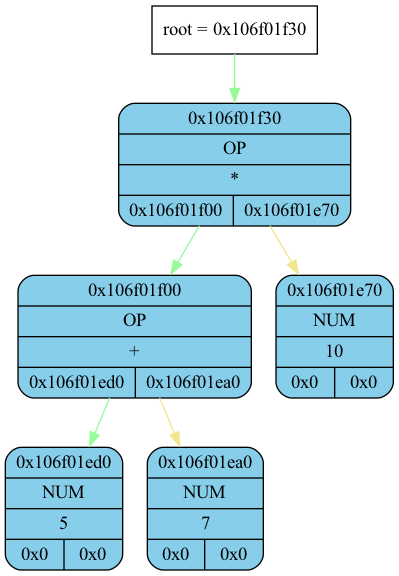
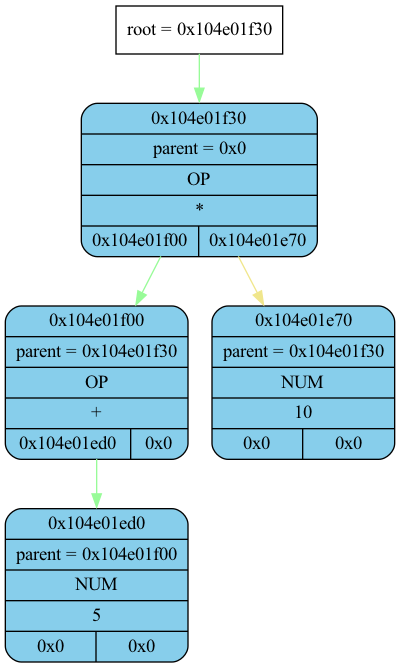
verify done but have some mistakes

diff --git a/logs/log.html b/logs/log.html
@@ -1,40 +1,27 @@
 <html>
 <pre>
 int main() at main.cpp(17):
-Tree 0x16b1cb4c0 (<span style="color: green">OK</span>) "&tree" at int main() at main.cpp(9):
-{
-    root = 0x106f01f30
-}</pre>
+Tree 0x16d2df480 (<span style="color: green">OK</span>) "&tree" at int main() at main.cpp(9):
+{root = 0x104e01f30}</pre>
 <img src="./images/tree_dump1.png">
 <pre>
 int main() at main.cpp(19):
-Tree 0x16b1cb4c0 (<span style="color: green">OK</span>) "&tree" at int main() at main.cpp(9):
-{
-    root = 0x106f01f30
-}</pre>
+Tree 0x16d2df480 (<span style="color: green">OK</span>) "&tree" at int main() at main.cpp(9):
+{root = 0x104e01f30}</pre>
 <img src="./images/tree_dump2.png">
 <pre>
 int main() at main.cpp(21):
-Tree 0x16b1cb4c0 (<span style="color: green">OK</span>) "&tree" at int main() at main.cpp(9):
-{
-    root = 0x106f01f30
-}</pre>
+Tree 0x16d2df480 (<span style="color: green">OK</span>) "&tree" at int main() at main.cpp(9):
+{root = 0x104e01f30}</pre>
 <img src="./images/tree_dump3.png">
 <pre>
 int main() at main.cpp(23):
-Tree 0x16b1cb4c0 (<span style="color: green">OK</span>) "&tree" at int main() at main.cpp(9):
-{
-    root = 0x106f01f30
-}</pre>
+Tree 0x16d2df480 (<span style="color: green">OK</span>) "&tree" at int main() at main.cpp(9):
+{root = 0x104e01f30}</pre>
 <img src="./images/tree_dump4.png">
 <pre>
-int main() at main.cpp(25):
-Tree 0x16b1cb4c0 (<span style="color: green">OK</span>) "&tree" at int main() at main.cpp(9):
-{
-    root = 0x106f01f30
-}</pre>
+int main() at main.cpp(26):
+Tree 0x16d2df480 (<span style="color: red">ERROR</span>) "&tree" at int main() at main.cpp(9):
+{root = 0x104e01f30}</pre>
+Node with type num has left child
 <img src="./images/tree_dump5.png">
-<pre>
-Tree 0x16b1cb4c0 "&tree" at int main() at main.cpp(9): DESTRUCTED
-</pre>
-</html>

diff --git a/tree_debug.cpp b/tree_debug.cpp
@@ -78,29 +78,29 @@ void add_nodes(tree_node_t * node)
 
     if (node->type == TYPE_OP)
     {
-        fprintf(graphviz_file, "    node_%p[shape = Mrecord, label = \"{{%p} | {OP} | {%c} | {%p | %p}}\",\n\
-                style=\"filled\", fillcolor=\"%s\"];\n", node, node, OPERATIONS[node->value - 1], node->left, node->right, BLUE);
+        fprintf(graphviz_file, "    node_%p[shape = Mrecord, label = \"{{%p} | {parent =  %p} | {OP} | {%c} | {%p | %p}}\",\n\
+                style=\"filled\", fillcolor=\"%s\"];\n", node, node, node->parent, OPERATIONS[node->value - 1], node->left, node->right, BLUE);
     }
     else
     {
-        fprintf(graphviz_file, "    node_%p[shape = Mrecord, label = \"{{%p} | {NUM} | {%d} | {%p | %p}}\",\n\
-                style=\"filled\", fillcolor=\"%s\"];\n", node, node, node->value, node->left, node->right, BLUE);
+        fprintf(graphviz_file, "    node_%p[shape = Mrecord, label = \"{{%p} | {parent =  %p} | {NUM} | {%d} | {%p | %p}}\",\n\
+                style=\"filled\", fillcolor=\"%s\"];\n", node, node, node->parent, node->value, node->left, node->right, BLUE);
     }
     add_nodes(node->left);
     add_nodes(node->right);
 }
 
-void link_nodes(tree_node_t * node)
+void link_nodes_gr(tree_node_t * node)
 {
     if (node->left != NULL)
     {
         fprintf(graphviz_file, "    node_%p->node_%p [color = \"%s\"];\n", node, node->left, GREEN);
-        link_nodes(node->left);
+        link_nodes_gr(node->left);
     }
     if (node->right != NULL)
     {
         fprintf(graphviz_file, "    node_%p->node_%p [color = \"%s\"];\n", node, node->right, YELLOW);
-        link_nodes(node->right);
+        link_nodes_gr(node->right);
     }
 }
 
@@ -126,17 +126,24 @@ int tree_dump_(tree_t * tree, const char * func, const char * file, int line)
 
     fprintf(log_file, "<pre>\n%s at %s(%d):\n", func, file, line);
 
-        fprintf(log_file, "Tree %p (<span style=\"color: green\">OK</span>) \"%s\" at %s at %s(%d):\n",
-                tree, tree->info.name, tree->info.func, tree->info.file, tree->info.line);
+    tree_verify(tree);
 
-        fprintf(log_file, "{\n    root = %p\n}", tree->root);
-        fprintf(log_file, "</pre>\n");
-
-    open_graphviz_file();
-    graphviz_init(tree);
-    add_nodes(tree->root);
-    link_nodes(tree->root);
-    close_graphviz_file();
+    if (tree->status == STATUS_OK)
+    {
+        fprintf(log_file, "Tree %p (<span style=\"color: green\">OK</span>) \"%s\" at %s at %s(%d):\n{root = %p}</pre>\n",
+                tree, tree->info.name, tree->info.func, tree->info.file, tree->info.line, tree->root);
+        open_graphviz_file();
+        graphviz_init(tree);
+        add_nodes(tree->root);
+        link_nodes_gr(tree->root);
+        close_graphviz_file();
+    }
+    else
+    {
+        fprintf(log_file, "Tree %p (<span style=\"color: red\">ERROR</span>) \"%s\" at %s at %s(%d):\n{root = %p}</pre>\n",
+                tree, tree->info.name, tree->info.func, tree->info.file, tree->info.line, tree->root);
+        error_number_translate(tree);
+    }
 
     system(graphviz_cmd);
 
@@ -145,4 +152,83 @@ int tree_dump_(tree_t * tree, const char * func, const char * file, int line)
     fprintf(log_file, "<img src=\"./images/tree_dump%d.png\">\n", dump_cnt);
 
     return 0;
+}
+
+int tree_verify(tree_t * tree)
+{
+    ASSERT(tree != NULL);
+
+    node_verify(tree, tree->root);
+
+    return STATUS_OK;
+}
+
+void node_verify(tree_t * tree, tree_node_t * node)
+{
+    if (node == NULL) return;
+
+    if (node->type == TYPE_NUM)
+    {
+        if (node->left != NULL)
+            tree->status |= NUM_NODE_HAS_LEFT_CHILD;
+
+        if (node->right != NULL)
+            tree->status |= NUM_NODE_HAS_RIGHT_CHILD;
+    }
+
+    if (node == tree->root && tree->root->parent != NULL)
+        tree->status |= ROOT_HAVE_PARENT;
+
+    if (node != tree->root && node->parent == NULL)
+        tree->status |= NOT_ROOT_HAVE_NO_PARENT;
+
+    if (node->left != NULL && node->left == node->right)
+        tree->status |= LEFT_RIGHT_SAME;
+
+    if (node->parent != NULL && node->parent->left != node && node->parent->right != node)
+        tree->status |= WRONG_PARENT;
+
+    if (tree->status != STATUS_OK)
+        return;
+
+    node_verify(tree, node->left);
+    node_verify(tree, node->right);
+}
+
+void error_number_translate(tree_t * tree)
+{
+    ASSERT(tree != NULL);
+
+    int i = 0;
+
+    while (i < ERRORS_COUNT)
+    {
+        switch (tree->status & (1 << i))
+        {
+            case 0:
+                break;
+            case NUM_NODE_HAS_LEFT_CHILD:
+                fprintf(log_file, "Node with type num has left child\n");
+                break;
+            case NUM_NODE_HAS_RIGHT_CHILD:
+                fprintf(log_file, "Node with type num has right child\n");
+                break;
+            case ROOT_HAVE_PARENT:
+                fprintf(log_file, "Tree root have parent\n");
+                break;
+            case NOT_ROOT_HAVE_NO_PARENT:
+                fprintf(log_file, "Node that is not root has NULL parent\n");
+                break;
+            case LEFT_RIGHT_SAME:
+                fprintf(log_file, "Left and right children are the same\n");
+                break;
+            case WRONG_PARENT:
+                fprintf(log_file, "Parent of node has child of this node\n");
+                break;
+            default:
+                fprintf(log_file, "Unknown error\n");
+                break;
+        }
+        i++;
+    }
 }

diff --git a/tree_debug.h b/tree_debug.h
@@ -28,6 +28,24 @@
 
 #define OPERATIONS "+-*/"
 
+//! @brief Errors that can be with tree
+enum STATUS
+{
+    STATUS_OK                = 0 << 0,
+    NUM_NODE_HAS_LEFT_CHILD  = 1 << 0,
+    NUM_NODE_HAS_RIGHT_CHILD = 1 << 1,
+    NODE_CREATE_ERROR        = 1 << 2,
+    NODE_LINK_ERROR          = 1 << 3,
+    MODE_LINK_ERROR          = 1 << 4,
+    LINK_NULL_ROOT           = 1 << 5,
+    ROOT_HAVE_PARENT         = 1 << 6,
+    WRONG_PARENT             = 1 << 7,
+    LEFT_RIGHT_SAME          = 1 << 8,
+    NOT_ROOT_HAVE_NO_PARENT  = 1 << 9,
+};
+
+const int ERRORS_COUNT = 10;
+
 //! @brief File to generate graphviz picture
 extern FILE * graphviz_file;
 
@@ -61,7 +79,7 @@ void add_nodes(tree_node_t * node);
 
 //! @brief Link nodes in .dot file
 //! @param [in] node - ptr to node
-void link_nodes(tree_node_t * node);
+void link_nodes_gr(tree_node_t * node);
 
 //! @brief Tree dump
 //! Make .dot file using funcs above and use graphiz to make png picture of dump
@@ -77,6 +95,21 @@ int tree_dump_(tree_t * tree, const char * func, const char * file, int line);
 //! cmd string buffer allocated with calloc (don't forget to free)
 //! @return ptr to string
 char * create_graphviz_cmd(void);
+
+//! @brief Verify tree, create number
+//! Summarize codes of mistakes to make number where each bit is concrete mistake
+//! @param [in] list - ptr to tree
+//! @return error number
+int tree_verify(tree_t * tree);
+
+//! @brief Verify node
+//! @param [in] node - ptr to node
+//! @return error number
+void node_verify(tree_t * tree, tree_node_t * node);
+
+//! @brief Write to log errors with using error number
+//! @param [in] error_number - error number what return tree verify
+void error_number_translate(tree_t * tree);
 
 
 #endif

diff --git a/tree_funcs.cpp b/tree_funcs.cpp
@@ -8,7 +8,7 @@ int tree_ctor_(tree_t * tree, var_info info)
     tree->root = NULL;
     tree->info = info;
 
-    return 0;
+    return STATUS_OK;
 }
 
 int tree_dtor(tree_t * tree)
@@ -28,7 +28,7 @@ int tree_dtor(tree_t * tree)
     tree->info.func = NULL;
     tree->info.line = 0;
 
-    return 0;
+    return STATUS_OK;
 }
 
 void nodes_dtor(tree_node_t * node)
@@ -44,12 +44,11 @@ int link_root(tree_t * tree, tree_node_t * root)
 {
     ASSERT(tree != NULL);
 
-    if (root == NULL)
-        return 1;
+    if (root == NULL) return LINK_NULL_ROOT;
 
     tree->root = root;
 
-    return 0;
+    return STATUS_OK;
 }
 
 tree_node_t * create_node(int type, elem_t value)
@@ -66,21 +65,24 @@ tree_node_t * create_node(int type, elem_t value)
     node->value = value;
     node->left = NULL;
     node->right = NULL;
+    node->parent = NULL;
 
     return node;
 }
 
 int link_node(tree_node_t * parent, tree_node_t * child, int mode)
 {
-    if (parent == NULL && child == NULL) return 1;
-    if (mode != LEFT && mode != RIGHT)   return 1;
+    if (parent == NULL || child == NULL) return NODE_LINK_ERROR;
+    if (mode != LEFT && mode != RIGHT)   return MODE_LINK_ERROR;
 
     if (mode == LEFT)
         parent->left = child;
     else
         parent->right = child;
 
-    return 0;
+    child->parent = parent;
+
+    return STATUS_OK;
 }
 
 void tree_print_preorder(tree_node_t * node)

diff --git a/main.cpp b/main.cpp
@@ -22,6 +22,7 @@ int main(void)
     link_node(n2, n3, LEFT);
     tree_dump(&tree);
     link_node(n2, n4, RIGHT);
+    n4->left = n4;
     tree_dump(&tree);
 
     tree_dtor(&tree);

diff --git a/tree.h b/tree.h
@@ -57,6 +57,7 @@ typedef struct tree_node
     elem_t      value;
     tree_node * left;
     tree_node * right;
+    tree_node * parent;
 } tree_node_t;
 
 //! @brief Tree struct
